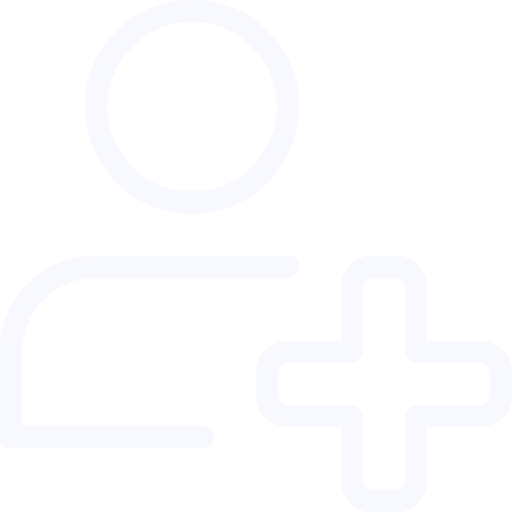
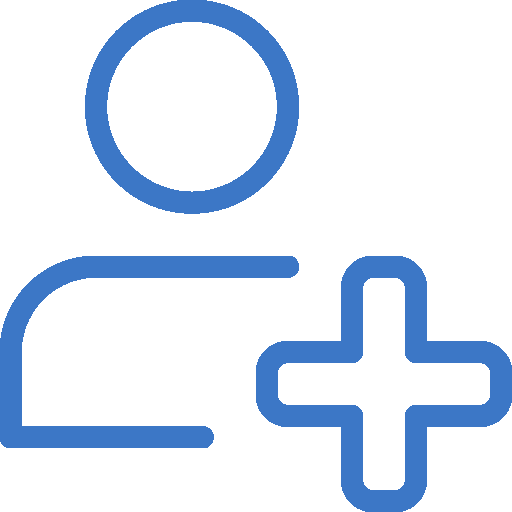
Made changes to topbar component

Changed region(s): [[0.5, 0.5, 1.0, 1.0], [0.1562, 0.0, 0.5938, 0.4375], [0.0, 0.5, 0.5938, 0.875]]

diff --git a/css/style.css b/css/style.css
@@ -361,7 +361,7 @@ button:active {
     transform: translateX(0px);
     transition: width .10s linear;
     background: linear-gradient(180deg, #ffffff 100%, #ffffff 0%);
-    box-shadow: 0 4px 8px 0 rgba(0, 0, 0, 0.2), 0 6px 20px 0 rgba(0, 0, 0, 0.19);
+    box-shadow: 0 7px 25px 0 rgba(0, 0, 0, 0.08);
 }
 
 .sidebarMenuInner {
@@ -1325,7 +1325,7 @@ input[type="checkbox"]:checked ~ #sidebarMenu .welcomeUser p {
     /* padding: 10px 20px; */
     background: #fff;
     width: 150px;
-    box-sizing: 0 7px 25px rgba(0,0,0,0.08);
+    box-sizing: 0 7px 25px rgba(0,0,0,0.2);
     border-radius: 15px;
     transition: 0.2s;
     visibility: hidden;
@@ -1393,7 +1393,8 @@ input[type="checkbox"]:checked ~ #sidebarMenu .welcomeUser p {
     transition: 0.5s;
 }
 .action .menu ul li:hover a{
-    color: blue;
+    font-weight: 800;
+    color: #3C77C6;
 }
 /* #topbarul{
     display: flex;

diff --git a/css/topbar.css b/css/topbar.css
@@ -6,7 +6,7 @@
 .topbar{
     /* max-width: calc(100%-60px);
     min-width: auto; */
-    width: calc(100%-160px);
+    /* width: calc(100%-160px); */
     height: 60px;
     background: pink;
     box-shadow: 0 7px 25px 0 rgba(0, 0, 0, 0.03);

diff --git a/Components/topbar.php b/Components/topbar.php
@@ -14,9 +14,9 @@ require_once("../conf/config.php");
       <div class="menu">
           <h3><?php echo $_GET['name']; ?><br><span>User role</span></h3>
           <ul class="topbarul">
-              <li><img src="../images/user.svg" alt="profile image"><a href="#">My Profile</a></li>
+              <li><img src="../images/user.png" alt="profile image"><a href="#">My Profile</a></li>
               <li><img src="../images/edit.svg" alt="profile image"><a href="#">Edit Profile</a></li>
-              <li><img src="../images/logout.svg" alt="profile image"><a href="<?php echo BASEURL . '/Homepage/logout.php?logout' ?>">Logout</a></li>
+              <li><img src="../images/logout.png" alt="profile image"><a href="<?php echo BASEURL . '/Homepage/logout.php?logout' ?>">Logout</a></li>
           </ul>
       </div>
   </div>
